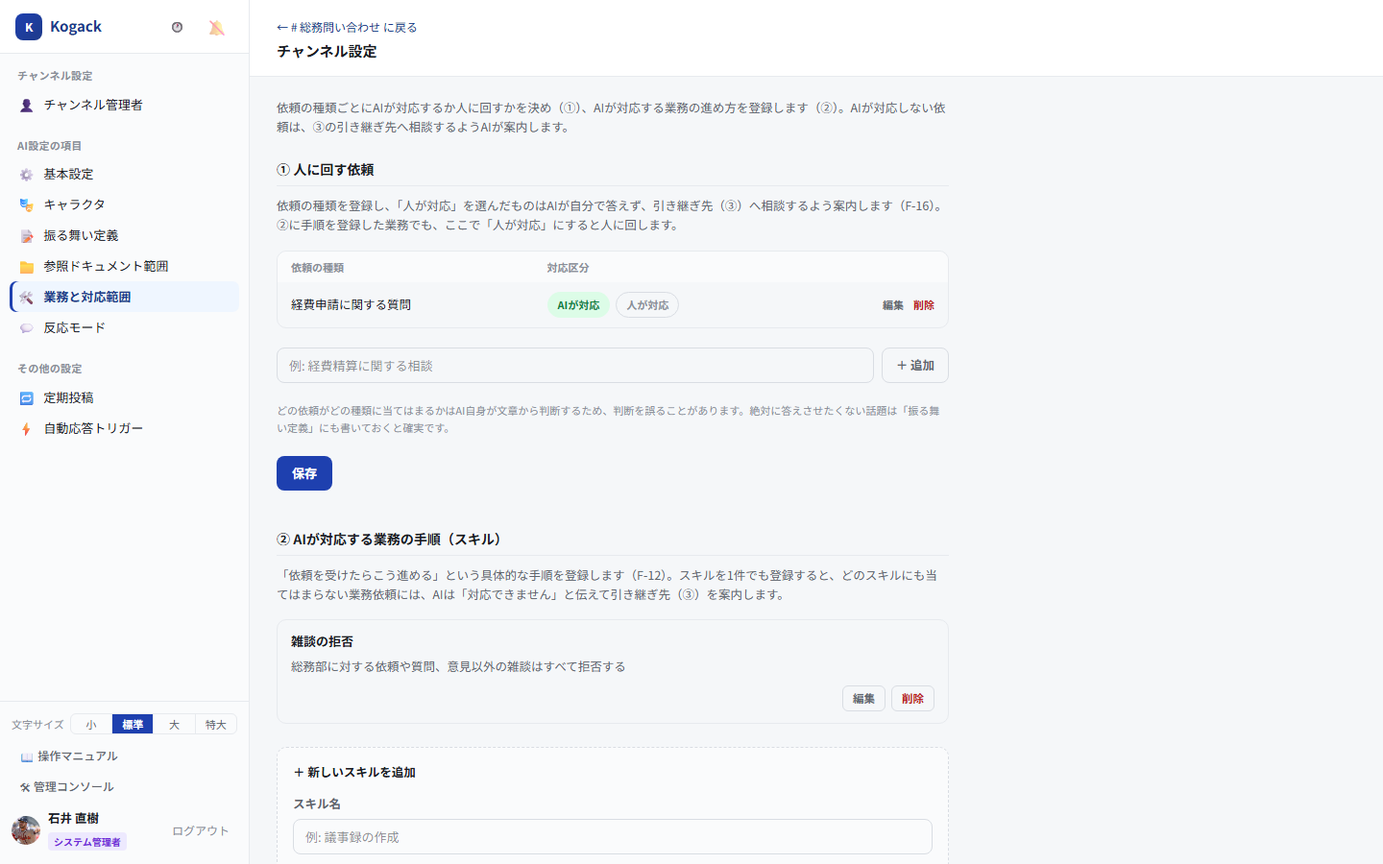
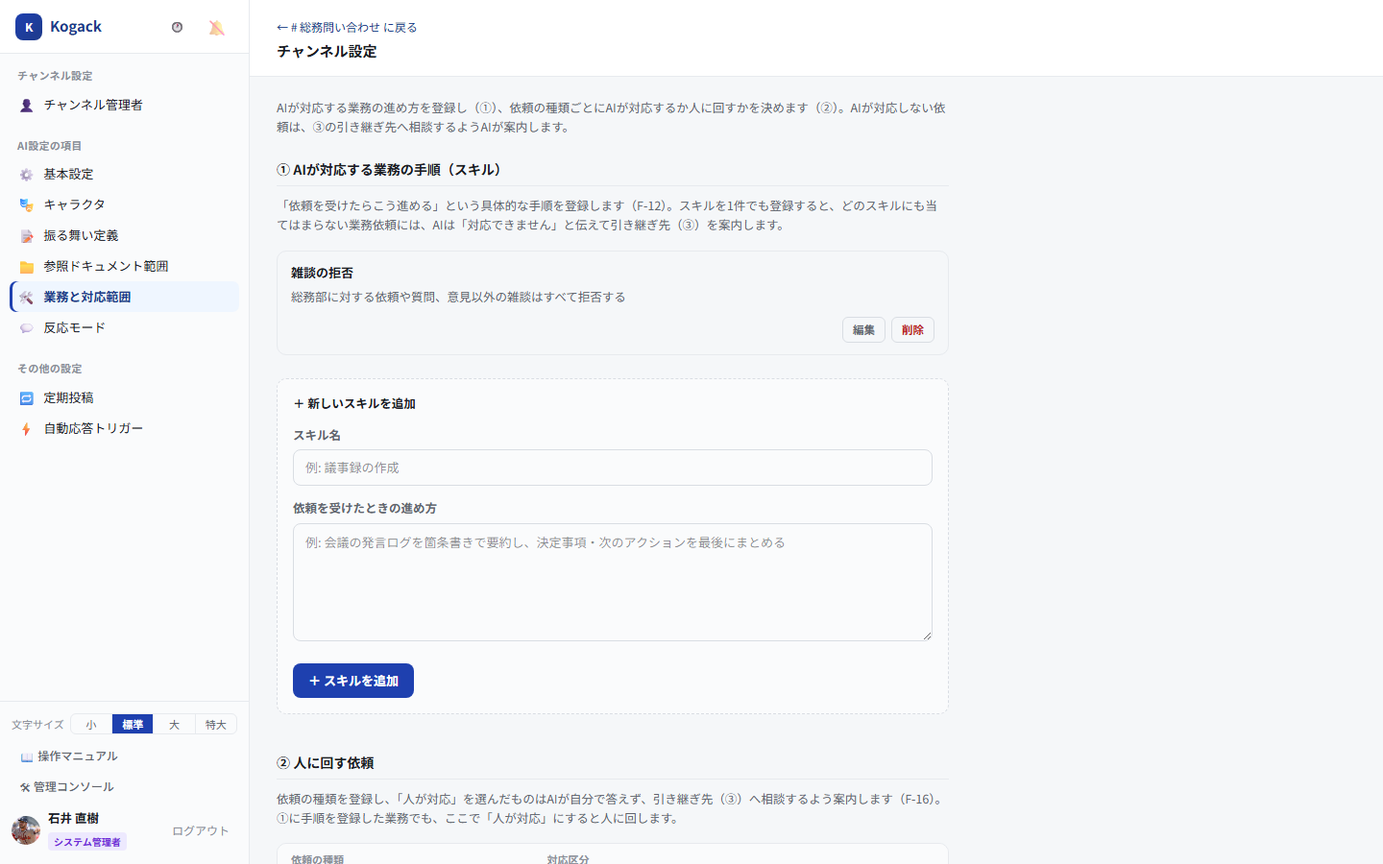
「業務と対応範囲」タブでAIが対応する業務の手順（スキル）を先頭に並べる
AIが何をするかを先に見せたいというユーザーの要望で、①AIが対応する業務の手順（スキル）
②人に回す依頼 ③引き継ぎ先 の順に入れ替えた。説明文中の①②の参照も入れ替え、基本設計書
4.8節・画面モックアップS-06・画面設計・操作マニュアル（図12-4撮り直し）・manual.mdを追従させた。

diff --git a/docs/画面モックアップ/S-06_チャンネル設定.html b/docs/画面モックアップ/S-06_チャンネル設定.html
@@ -596,11 +596,26 @@
 
       <!-- 業務と対応範囲（旧「スキル」「自動対応範囲」を画面上だけ統合、2026-09-29） -->
       <div class="tab-panel" id="panel-skills">
-        <p class="panel-lede">依頼の種類ごとにAIが対応するか人に回すかを決め（①）、AIが対応する業務の進め方を登録します（②）。AIが対応しない依頼は、③の引き継ぎ先へ相談するようAIが案内します。</p>
+        <p class="panel-lede">AIが対応する業務の進め方を登録し（①）、依頼の種類ごとにAIが対応するか人に回すかを決めます（②）。AIが対応しない依頼は、③の引き継ぎ先へ相談するようAIが案内します。</p>
 
         <div class="field-group">
-          <label class="field-label">① 人に回す依頼</label>
-          <div class="field-hint" style="margin:0 0 10px;">依頼の種類を登録し、「人が対応」を選んだものはAIが自分で答えず、引き継ぎ先（③）へ相談するよう案内します（F-16）。②に手順を登録した業務でも、ここで「人が対応」にすると人に回します。</div>
+          <label class="field-label">① AIが対応する業務の手順（スキル）</label>
+          <div class="field-hint" style="margin:0 0 10px;">「依頼を受けたらこう進める」手順を登録します（F-12）。スキルを1件でも登録すると、どのスキルにも当てはまらない業務依頼には、AIは「対応できません」と伝えて引き継ぎ先（③）を案内します。</div>
+        <div class="skill-card">
+          <div class="skill-head"><span class="skill-title">デプロイ手順の案内</span><button class="skill-del" type="button">削除</button></div>
+          <textarea rows="3">デプロイ方法に関する質問を受けたら、まずデプロイ手順書.mdを参照し、ステージング検証→バックアップ→本番反映の順で案内する。手順書に無い内容は「担当者に確認してください」と回答する。</textarea>
+        </div>
+        <div class="skill-card">
+          <div class="skill-head"><span class="skill-title">座席予約状況の確認</span><button class="skill-del" type="button">削除</button></div>
+          <textarea rows="3">会議室・座席の空き状況を聞かれたら、座席予約システムを参照し、日時・エリアを確認したうえで空き状況を表形式で回答する。</textarea>
+        </div>
+        <button class="add-skill-btn" type="button">＋ スキルを追加</button>
+
+        </div>
+
+        <div class="field-group" style="margin-top:26px;">
+          <label class="field-label">② 人に回す依頼</label>
+          <div class="field-hint" style="margin:0 0 10px;">依頼の種類を登録し、「人が対応」を選んだものはAIが自分で答えず、引き継ぎ先（③）へ相談するよう案内します（F-16）。①に手順を登録した業務でも、ここで「人が対応」にすると人に回します。</div>
         <table class="auto-table">
           <thead><tr><th>依頼の種類</th><th>対応区分</th></tr></thead>
           <tbody>
@@ -633,23 +648,8 @@
         </div>
 
         <div class="field-group" style="margin-top:26px;">
-          <label class="field-label">② AIが対応する業務の手順（スキル）</label>
-          <div class="field-hint" style="margin:0 0 10px;">「依頼を受けたらこう進める」手順を登録します（F-12）。スキルを1件でも登録すると、どのスキルにも当てはまらない業務依頼には、AIは「対応できません」と伝えて引き継ぎ先（③）を案内します。</div>
-        <div class="skill-card">
-          <div class="skill-head"><span class="skill-title">デプロイ手順の案内</span><button class="skill-del" type="button">削除</button></div>
-          <textarea rows="3">デプロイ方法に関する質問を受けたら、まずデプロイ手順書.mdを参照し、ステージング検証→バックアップ→本番反映の順で案内する。手順書に無い内容は「担当者に確認してください」と回答する。</textarea>
-        </div>
-        <div class="skill-card">
-          <div class="skill-head"><span class="skill-title">座席予約状況の確認</span><button class="skill-del" type="button">削除</button></div>
-          <textarea rows="3">会議室・座席の空き状況を聞かれたら、座席予約システムを参照し、日時・エリアを確認したうえで空き状況を表形式で回答する。</textarea>
-        </div>
-        <button class="add-skill-btn" type="button">＋ スキルを追加</button>
-
-        </div>
-
-        <div class="field-group" style="margin-top:26px;">
           <label class="field-label">③ 引き継ぎ先</label>
-          <div class="field-hint" style="margin:0 0 10px;">①で「人が対応」にした依頼と、②のどのスキルにも当てはまらない業務依頼が来たとき、誰に引き継ぐかを設定します（F-17）。</div>
+          <div class="field-hint" style="margin:0 0 10px;">②で「人が対応」にした依頼と、①のどのスキルにも当てはまらない業務依頼が来たとき、誰に引き継ぐかを設定します（F-17）。</div>
 
           <div class="radio-card selected">
             <div class="radio-dot"></div>
@@ -712,7 +712,7 @@
     <span style="color:#fbbf24;">1.15版で改称:</span> 画面名を「チャンネルAI設定」から「チャンネル設定」に変更した。チャンネル管理者・定期投稿・自動応答トリガーとAI設定以外の項目が増え、旧名称が実態と合わなくなったため。画面ID・ファイル名は変更していない。要件定義書・基本設計書にも反映済み。<br>
     <span style="color:#fbbf24;">1.16版で改名:</span> モックアップのファイル名も<code>S-06_チャンネルAI設定.html</code>から<code>S-06_チャンネル設定.html</code>に変更した。参照している全ファイル（一覧・S-03・補足03・補足06）のリンクを更新済み。<br>
     <span style="color:#fbbf24;">1.19版で追加:</span> 「チャンネル管理者」タブにチャンネル名・説明文の編集欄と、チャンネルを完全に削除する操作（危険な操作。削除対象のチャンネル名を再入力して初めて「削除する」ボタンが有効になる）を追加した。要件定義書F-02・権限マトリクスに反映済み（チャンネル名・説明文の編集は今回新規、削除自体は基本設計書に以前から記載されていたが未実装だった）。<br>
-    <span style="color:#fbbf24;" class="diff-new">1.20版で統合:</span> <span class="diff-new">「スキル」タブと「自動対応範囲」タブを、画面上だけ「業務と対応範囲」タブ1つにまとめた（2026-09-29、ユーザーからの要望）。上から「① 人に回す依頼」（旧・自動対応範囲、F-16）・「② AIが対応する業務の手順」（旧・スキル、F-12）・「③ 引き継ぎ先」（F-17）の順に並べる。DB・API・機能は別々のまま。実行前確認（F-25）が未実装で「自動対応可」と同じ動きしかしない「確認のうえ対応」は選択肢から外し、「自動対応可」は「AIが対応」に言い換えた。基本設計書4.8節に反映済み。</span>
+    <span style="color:#fbbf24;" class="diff-new">1.20版で統合:</span> <span class="diff-new">「スキル」タブと「自動対応範囲」タブを、画面上だけ「業務と対応範囲」タブ1つにまとめた（2026-09-29、ユーザーからの要望）。上から「① AIが対応する業務の手順」（旧・スキル、F-12）・「② 人に回す依頼」（旧・自動対応範囲、F-16）・「③ 引き継ぎ先」（F-17）の順に並べる（AIが何をするかを先に見せるため手順を先頭にした）。DB・API・機能は別々のまま。実行前確認（F-25）が未実装で「自動対応可」と同じ動きしかしない「確認のうえ対応」は選択肢から外し、「自動対応可」は「AIが対応」に言い換えた。基本設計書4.8節に反映済み。</span>
   </div>
 
 <script>

diff --git a/frontend/src/pages/ChannelSettings.tsx b/frontend/src/pages/ChannelSettings.tsx
@@ -1218,7 +1218,8 @@ const visibleLevels = (current: AutoResponseRule['response_level']) =>
 // 「業務と対応範囲」タブ（2026-09-29、ユーザーからの要望で旧「スキル」タブと旧「自動対応範囲」タブを
 // 画面上だけ1つにまとめた。DB（T-11/T-12）・API（A-28〜A-31・A-45）は別々のまま）。どちらも
 // 「この種類の依頼が来たらAIはどうするか」を決める設定で、引き継ぎ先も両方から使われるため、
-// ①人に回す依頼 ②AIが対応する業務の手順 ③引き継ぎ先 の順に1画面で見渡せるようにする。
+// ①AIが対応する業務の手順 ②人に回す依頼 ③引き継ぎ先 の順に1画面で見渡せるようにする（当初は
+// ①②が逆だったが、AIが何をするかを先に見せたいというユーザーの要望で同日入れ替えた）。
 // 旧URL（?tab=skills・?tab=auto）はどちらもこのタブを開く
 function TasksTab({
   channelId,
@@ -1232,13 +1233,13 @@ function TasksTab({
   return (
     <div className="max-w-[700px]">
       <p className="mb-6 text-[12.5px] leading-relaxed text-ink-muted">
-        依頼の種類ごとにAIが対応するか人に回すかを決め（①）、AIが対応する業務の進め方を登録します（②）。AIが対応しない依頼は、③の引き継ぎ先へ相談するようAIが案内します。
+        AIが対応する業務の進め方を登録し（①）、依頼の種類ごとにAIが対応するか人に回すかを決めます（②）。AIが対応しない依頼は、③の引き継ぎ先へ相談するようAIが案内します。
       </p>
-      <SectionHeading no="①" title="人に回す依頼" />
-      <AutoResponseSection channelId={channelId} settings={settings} mutate={mutate} />
-      <div className="mt-10" />
-      <SectionHeading no="②" title="AIが対応する業務の手順（スキル）" />
+      <SectionHeading no="①" title="AIが対応する業務の手順（スキル）" />
       <SkillsSection channelId={channelId} settings={settings} mutate={mutate} />
+      <div className="mt-10" />
+      <SectionHeading no="②" title="人に回す依頼" />
+      <AutoResponseSection channelId={channelId} settings={settings} mutate={mutate} />
       <div className="mt-10" />
       <SectionHeading no="③" title="引き継ぎ先" />
       <HandoffSection channelId={channelId} settings={settings} mutate={mutate} />
@@ -1254,7 +1255,7 @@ function SectionHeading({ no, title }: { no: string; title: string }) {
   )
 }
 
-// ①人に回す依頼＝旧「自動対応範囲」タブ（A-31、F-16。TasksTabの一部）。
+// ②人に回す依頼＝旧「自動対応範囲」タブ（A-31、F-16。TasksTabの一部）。
 // 「人が対応」区分の判定方法は設計書が規定していない（グレー）ため、
 // ユーザーに確認のうえ、区分一覧をシステムプロンプトに含めてAI自身に判断・引き継ぎさせる方式を
 // 採用した（追加の分類LLM呼び出しはしない。services/ai_agent.py _build_auto_response_sectionを参照）。
@@ -1350,7 +1351,7 @@ function AutoResponseSection({
   return (
     <div>
       <p className="mb-4 text-[12.5px] leading-relaxed text-ink-muted">
-        依頼の種類を登録し、「人が対応」を選んだものはAIが自分で答えず、引き継ぎ先（③）へ相談するよう案内します（F-16）。②に手順を登録した業務でも、ここで「人が対応」にすると人に回します。
+        依頼の種類を登録し、「人が対応」を選んだものはAIが自分で答えず、引き継ぎ先（③）へ相談するよう案内します（F-16）。①に手順を登録した業務でも、ここで「人が対応」にすると人に回します。
       </p>
 
       {rules.length === 0 ? (
@@ -1524,7 +1525,7 @@ function SkillFormFields({
   )
 }
 
-// ②AIが対応する業務の手順＝旧「スキル」タブ（A-28〜A-30、F-12。TasksTabの一部）。定期投稿・
+// ①AIが対応する業務の手順＝旧「スキル」タブ（A-28〜A-30、F-12。TasksTabの一部）。定期投稿・
 // トリガーと同じ「新規作成パネル＋編集モーダル」の構成。引き継ぎ先は①②の両方から使われるため
 // HandoffSection（③）へ分けた
 function SkillsSection({
@@ -1646,7 +1647,7 @@ function SkillsSection({
   )
 }
 
-// ③引き継ぎ先（A-45、F-17。TasksTabの一部）。①で「人が対応」にした依頼と、②のどのスキルにも
+// ③引き継ぎ先（A-45、F-17。TasksTabの一部）。②で「人が対応」にした依頼と、①のどのスキルにも
 // 当てはまらない業務依頼の両方で、AIが案内する相談先。参加者から選ぶセレクトのみのため、
 // GeneralTabのトグルと同じく選択時に即保存する
 function HandoffSection({
@@ -1681,7 +1682,7 @@ function HandoffSection({
   return (
     <div>
       <p className="mb-2.5 text-[12.5px] leading-relaxed text-ink-muted">
-        ①で「人が対応」にした依頼と、②のどのスキルにも当てはまらない業務依頼を受けたときに、AIが案内する相談先です（F-17）。未指定の場合はこのチャンネルの管理者を案内します。指定した参加者が退出・無効化された場合は自動的に未指定へ戻ります。
+        ②で「人が対応」にした依頼と、①のどのスキルにも当てはまらない業務依頼を受けたときに、AIが案内する相談先です（F-17）。未指定の場合はこのチャンネルの管理者を案内します。指定した参加者が退出・無効化された場合は自動的に未指定へ戻ります。
       </p>
       <select
         value={settings.fallback_handoff_user_id ?? ''}

diff --git a/docs/04_基本設計書.html b/docs/04_基本設計書.html
@@ -506,8 +506,8 @@
     <li><strong>参照ドキュメント範囲:</strong> S-08で登録された候補フォルダの中から、このチャンネルの回答根拠とする範囲を選択する（F-11）。選択していても質問者本人に閲覧権限がない文書は回答対象から除外される（5.1節）。<span class="diff-new">あわせて、指定範囲外の質問への対応方針（「厳格に制限」／「一般回答を許可」）を設定する（8.2節）。</span></li>
     <li class="diff-new"><strong>業務と対応範囲:</strong> 旧「スキル」「自動対応範囲」の2タブを1つにまとめたもの。上から次の3つの欄で構成する。
       <ol>
-        <li><strong>人に回す依頼</strong>（旧「自動対応範囲」、F-16）: 依頼の種類ごとに「AIが対応／人が対応」を設定する。「人が対応」の依頼は、AIが同一チャンネル内で引き継ぎ先にメンションして引き継ぐ（F-17、DMは使わない）。</li>
         <li><strong>AIが対応する業務の手順</strong>（旧「スキル」、F-12）: 「依頼を受けたらこう進める」手順をテキストで登録する。スキルを1件以上登録すると、どのスキルにも当てはまらない業務依頼には対応できない旨を伝えて引き継ぎ先を案内する。</li>
+        <li><strong>人に回す依頼</strong>（旧「自動対応範囲」、F-16）: 依頼の種類ごとに「AIが対応／人が対応」を設定する。「人が対応」の依頼は、AIが同一チャンネル内で引き継ぎ先にメンションして引き継ぐ（F-17、DMは使わない）。</li>
         <li><strong>引き継ぎ先</strong>（F-17）: 1と2の両方で使う相談先（既定のチャンネル管理者、または指定した参加者）。</li>
       </ol>
     </li>
@@ -516,7 +516,7 @@
   </ul>
 
   <div class="callout diff-new">
-    <strong>設計判断（スキルと自動対応範囲を画面上だけ1つのタブにまとめた理由）:</strong> 両者はどちらも「この種類の依頼が来たらAIはどうするか」を決める設定で、利用者からは同じ問いへの答えが2つのタブに分かれて見えていた。引き継ぎ先はスキルタブで設定するのに自動対応範囲の「人が対応」でも使われる、スキルに手順を書いても自動対応範囲で「人が対応」にすると人に回される、といった相互の関係も別タブでは見えにくかった。一方、スキルは手順を書き込む重い設定、自動対応範囲は区分を選ぶだけの軽い設定で性質が異なり、要件定義書でも別機能（F-12・F-16）として定義されているため、データ（T-11/T-12）とAPIは統合せず、画面だけを「人に回す依頼 → AIが対応する業務の手順 → 引き継ぎ先」の順に1タブへ並べた。あわせて「確認のうえ対応」は、実行前確認（F-25）が未実装で「自動対応可」と同じ動きしかせず利用者を迷わせるため選択肢から外した（既にこの区分になっている行だけは表示を残す）。F-25を実装したら選択肢に戻す。
+    <strong>設計判断（スキルと自動対応範囲を画面上だけ1つのタブにまとめた理由）:</strong> 両者はどちらも「この種類の依頼が来たらAIはどうするか」を決める設定で、利用者からは同じ問いへの答えが2つのタブに分かれて見えていた。引き継ぎ先はスキルタブで設定するのに自動対応範囲の「人が対応」でも使われる、スキルに手順を書いても自動対応範囲で「人が対応」にすると人に回される、といった相互の関係も別タブでは見えにくかった。一方、スキルは手順を書き込む重い設定、自動対応範囲は区分を選ぶだけの軽い設定で性質が異なり、要件定義書でも別機能（F-12・F-16）として定義されているため、データ（T-11/T-12）とAPIは統合せず、画面だけを「AIが対応する業務の手順 → 人に回す依頼 → 引き継ぎ先」の順に1タブへ並べた（AIが何をするかを先に見せるため、手順を先頭にした）。あわせて「確認のうえ対応」は、実行前確認（F-25）が未実装で「自動対応可」と同じ動きしかせず利用者を迷わせるため選択肢から外した（既にこの区分になっている行だけは表示を残す）。F-25を実装したら選択肢に戻す。
   </div>
 
   <h3>4.9 S-07 AI操作確認ダイアログ</h3>

diff --git a/docs/06_操作マニュアル.html b/docs/06_操作マニュアル.html
@@ -520,7 +520,7 @@
       <tr><td>キャラクタ</td><td>AIの名前・アイコン画像・口調を設定する。口調を空欄にした場合は、です・ます調の丁寧語で1つの返信の中の文体を統一し、人の名前には「さん」を付けて呼ぶ。口調欄に「人の名前は『くん』付けで呼ぶ」のように呼び方を書くと、そちらが優先される</td></tr>
       <tr><td>振る舞い定義</td><td>AIの応答方針を自由記述で指定する。変更者・日時は監査ログ（13.4節）に記録される</td></tr>
       <tr><td>参照ドキュメント範囲</td><td>管理コンソールに登録済みのファイルから、このチャンネルのAIが参照してよい範囲を選ぶ（11.3節）。参照範囲外の質問に一般知識で答えてよいかも選べる</td></tr>
-      <tr class="diff-new"><td>業務と対応範囲</td><td>上から3つの欄で設定する（図12-4）。<br>① <strong>人に回す依頼</strong>: 依頼の種類ごとに「AIが対応」か「人が対応」を選ぶ。「人が対応」にした依頼は、AIが自分で答えずに引き継ぎ先へ相談するよう案内する<br>② <strong>AIが対応する業務の手順（スキル）</strong>: 「依頼を受けたらこう進める」手順を登録する。1件でも登録すると、どのスキルにも当てはまらない業務依頼には「対応できません」と伝えて引き継ぎ先を案内する<br>③ <strong>引き継ぎ先</strong>: ①②の両方でAIが案内する相談先を参加者から選ぶ（未指定ならチャンネル管理者）</td></tr>
+      <tr class="diff-new"><td>業務と対応範囲</td><td>上から3つの欄で設定する（図12-4）。<br>① <strong>AIが対応する業務の手順（スキル）</strong>: 「依頼を受けたらこう進める」手順を登録する。1件でも登録すると、どのスキルにも当てはまらない業務依頼には「対応できません」と伝えて引き継ぎ先を案内する<br>② <strong>人に回す依頼</strong>: 依頼の種類ごとに「AIが対応」か「人が対応」を選ぶ。「人が対応」にした依頼は、AIが自分で答えずに引き継ぎ先へ相談するよう案内する<br>③ <strong>引き継ぎ先</strong>: ①②の両方でAIが案内する相談先を参加者から選ぶ（未指定ならチャンネル管理者）</td></tr>
       <tr><td>反応モード</td><td>「メンション時のみ応答」または「投稿に自ら反応」を選ぶ。<span class="diff-new">あわせて「メンションの催促」をオンにすると、メンションされた人が一定時間（1時間〜7日から選ぶ）たっても返信も絵文字リアクションもしていない場合に、AIが元の発言のスレッドで本人に催促する（1件のメンションにつき1回だけ。オンにした時点より後のメンションが対象で、@channel・@hereは対象外。AIが無効なチャンネルでは催促しない）</span></td></tr>
     </tbody>
   </table>
@@ -535,7 +535,7 @@
   <p class="diff-new"><strong>「振る舞い定義」と「業務と対応範囲」の使い分け</strong>: 振る舞い定義は、どんな質問にも共通する方針（役割・答え方・してはいけないこと）を文章で書きます。業務と対応範囲は、依頼の種類ごとに「AIが対応するか人に回すか」と「AIが対応する業務の進め方」を決めます。どの依頼がどの種類に当てはまるかはAI自身が文章から判断するため、判断を誤ることがあります。絶対に答えさせたくない話題は、振る舞い定義にも書いておくと確実です。</p>
   <figure class="shot diff-new">
     <img src="操作マニュアル画像/29_channel_settings_tasks.png" alt="チャンネル設定の業務と対応範囲タブ">
-    <figcaption><span class="fig-no">図12-4</span>「業務と対応範囲」タブ。① 人に回す依頼、② AIが対応する業務の手順（スキル）、③ 引き継ぎ先の順に並ぶ。</figcaption>
+    <figcaption><span class="fig-no">図12-4</span>「業務と対応範囲」タブ。① AIが対応する業務の手順（スキル）、② 人に回す依頼、③ 引き継ぎ先の順に並ぶ。</figcaption>
   </figure>
 
   <h3>12.3 定期投稿・自動応答トリガー・送信予約</h3>

diff --git a/docs/05-3_詳細設計書_画面設計.html b/docs/05-3_詳細設計書_画面設計.html
@@ -111,7 +111,7 @@
       <tr><td>キャラクタ</td><td>アイコン（画像アップロード）／名前／口調</td><td>画像＋テキスト</td><td>A-61→A-25</td></tr>
       <tr><td>振る舞い定義</td><td>プロンプト本文</td><td>テキストエリア</td><td>A-26（上書き保存、監査ログ記録）</td></tr>
       <tr><td>参照ドキュメント範囲</td><td>フォルダ/文書チェックボックスツリー、指定範囲外の対応方針（厳格に制限／一般回答を許可）</td><td>チェックボックス＋ラジオ</td><td>A-27</td></tr>
-      <tr class="diff-new"><td>業務と対応範囲</td><td>① 人に回す依頼：依頼の種類ごとの対応区分（AIが対応/人が対応。既に「確認のうえ対応」の行のみその選択肢も表示）、＋追加、保存<br>② AIが対応する業務の手順（スキル）：スキル一覧（編集/削除）、＋スキルを追加<br>③ 引き継ぎ先：参加者から選択（選択時に即保存）</td><td>テーブル＋ピル選択、一覧＋モーダル、セレクト</td><td>①A-31、②A-28〜A-30、③A-45</td></tr>
+      <tr class="diff-new"><td>業務と対応範囲</td><td>① AIが対応する業務の手順（スキル）：スキル一覧（編集/削除）、＋スキルを追加<br>② 人に回す依頼：依頼の種類ごとの対応区分（AIが対応/人が対応。既に「確認のうえ対応」の行のみその選択肢も表示）、＋追加、保存<br>③ 引き継ぎ先：参加者から選択（選択時に即保存）</td><td>テーブル＋ピル選択、一覧＋モーダル、セレクト</td><td>①A-28〜A-30、②A-31、③A-45</td></tr>
       <tr><td>反応モード</td><td>メンション時のみ応答／投稿に自ら反応<span class="diff-new">、メンションの催促（オン/オフ、催促するまでの時間）</span></td><td>ラジオ<span class="diff-new">＋トグル＋セレクト</span></td><td>A-24<span class="diff-new">、A-77</span></td></tr>
       <tr><td>定期投稿</td><td>ルール一覧（編集/削除/一時停止）、追加フォーム（送り主表示名<span class="required-mark">*</span>、アイコン、本文<span class="required-mark">*</span>、頻度、初回送信日時<span class="required-mark">*</span>）</td><td>一覧＋フォーム</td><td>A-53〜A-56</td></tr>
       <tr><td>自動応答トリガー</td><td>ルール一覧（編集/削除/一時停止）、追加フォーム（種類：キーワード/絵文字<span class="required-mark">*</span>、値<span class="required-mark">*</span>、実行する処理＝固定、投稿本文<span class="required-mark">*</span>、送り主表示名<span class="required-mark">*</span>、アイコン）</td><td>一覧＋フォーム</td><td>A-63〜A-66</td></tr>
